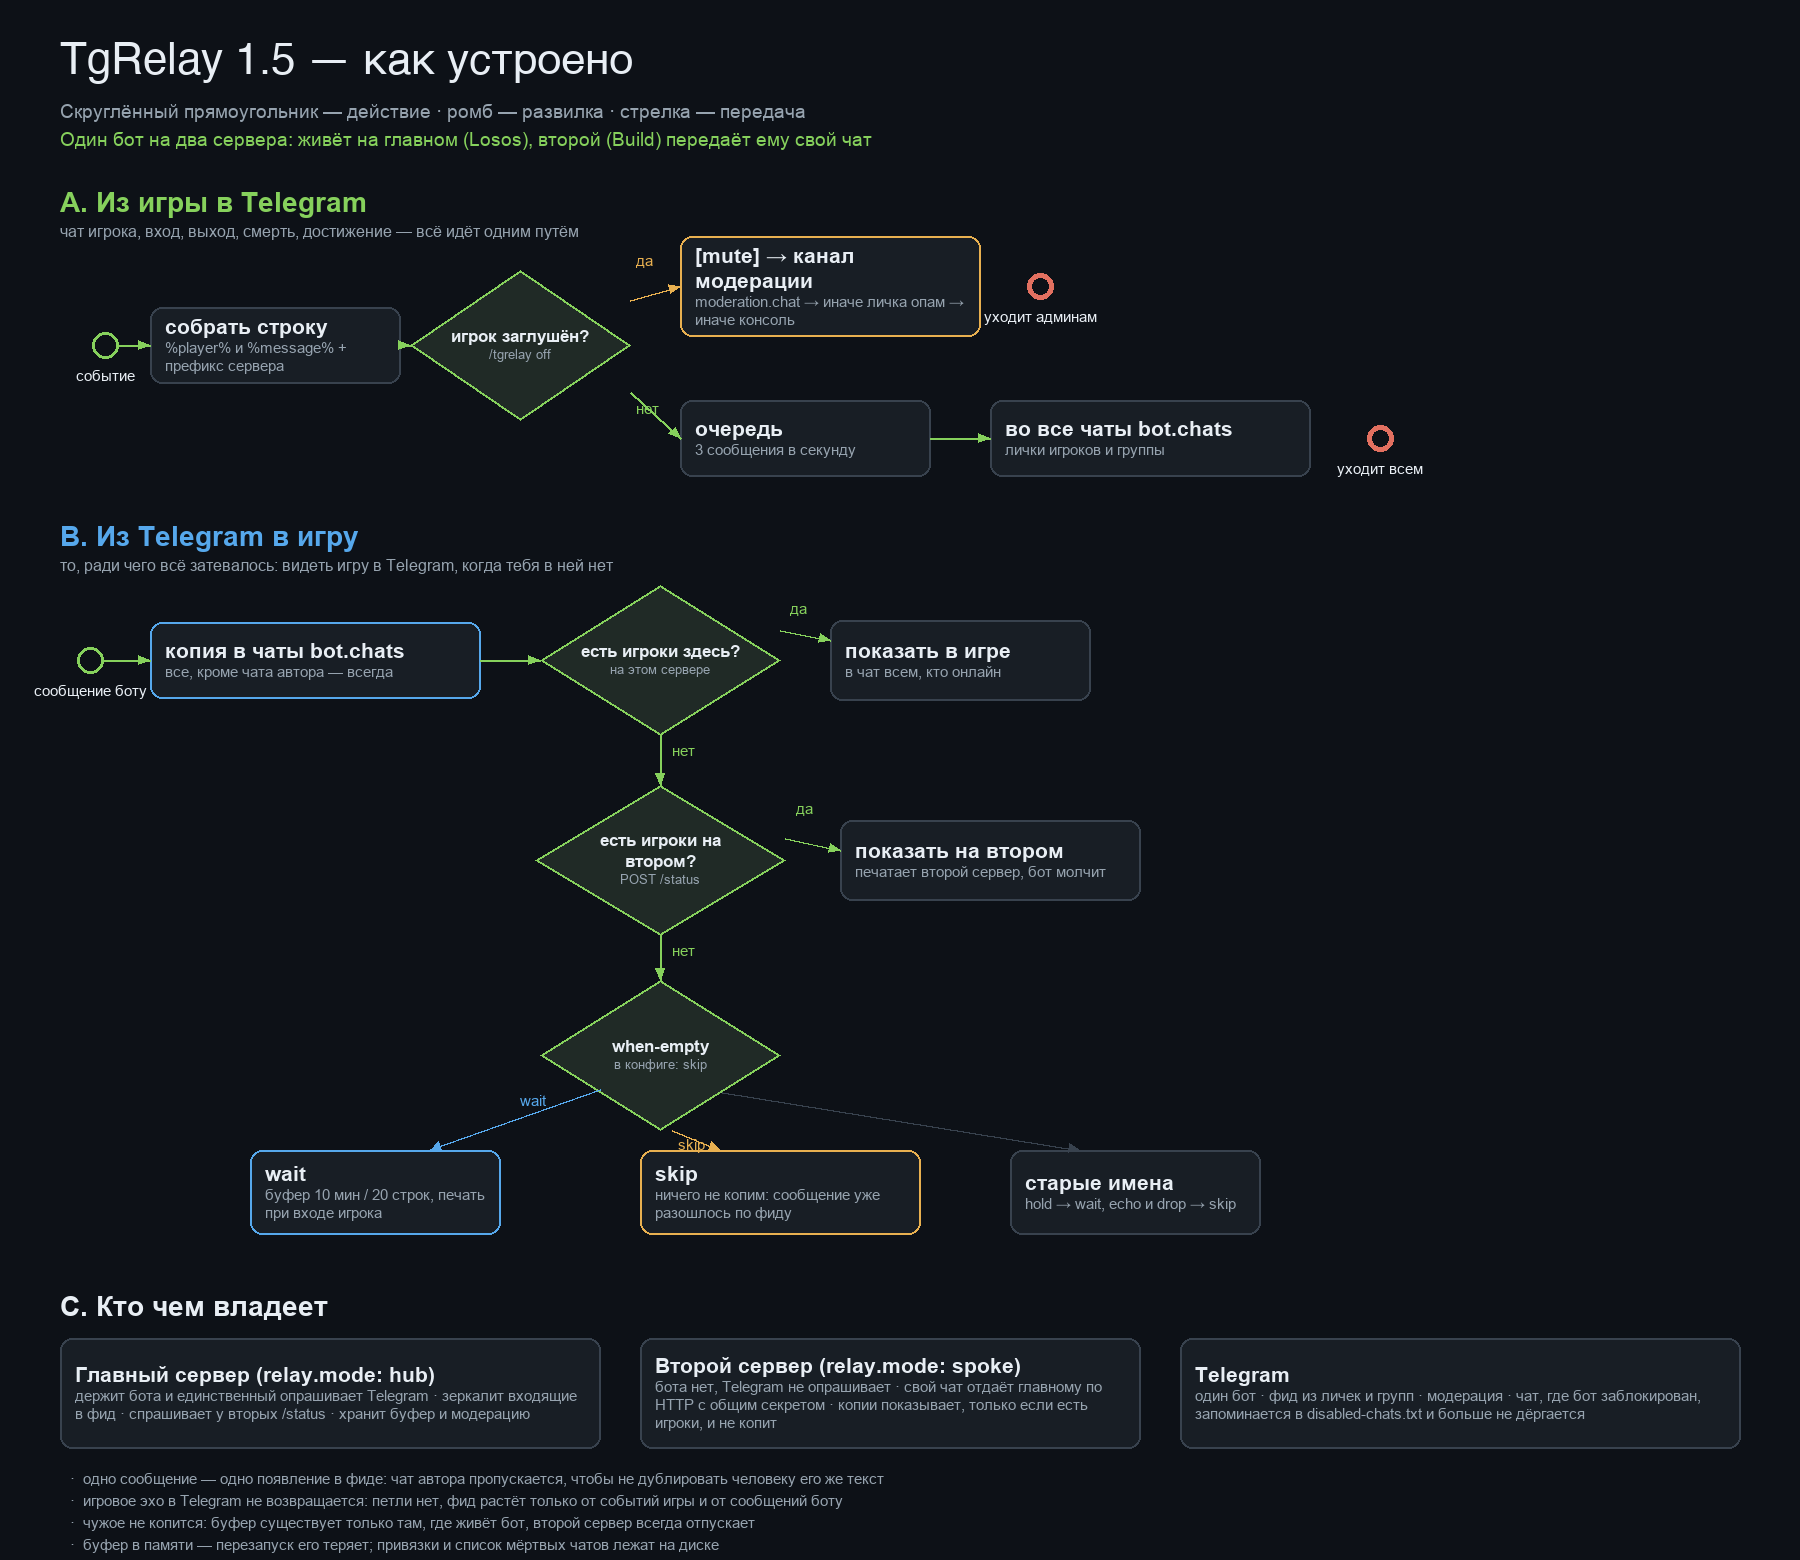
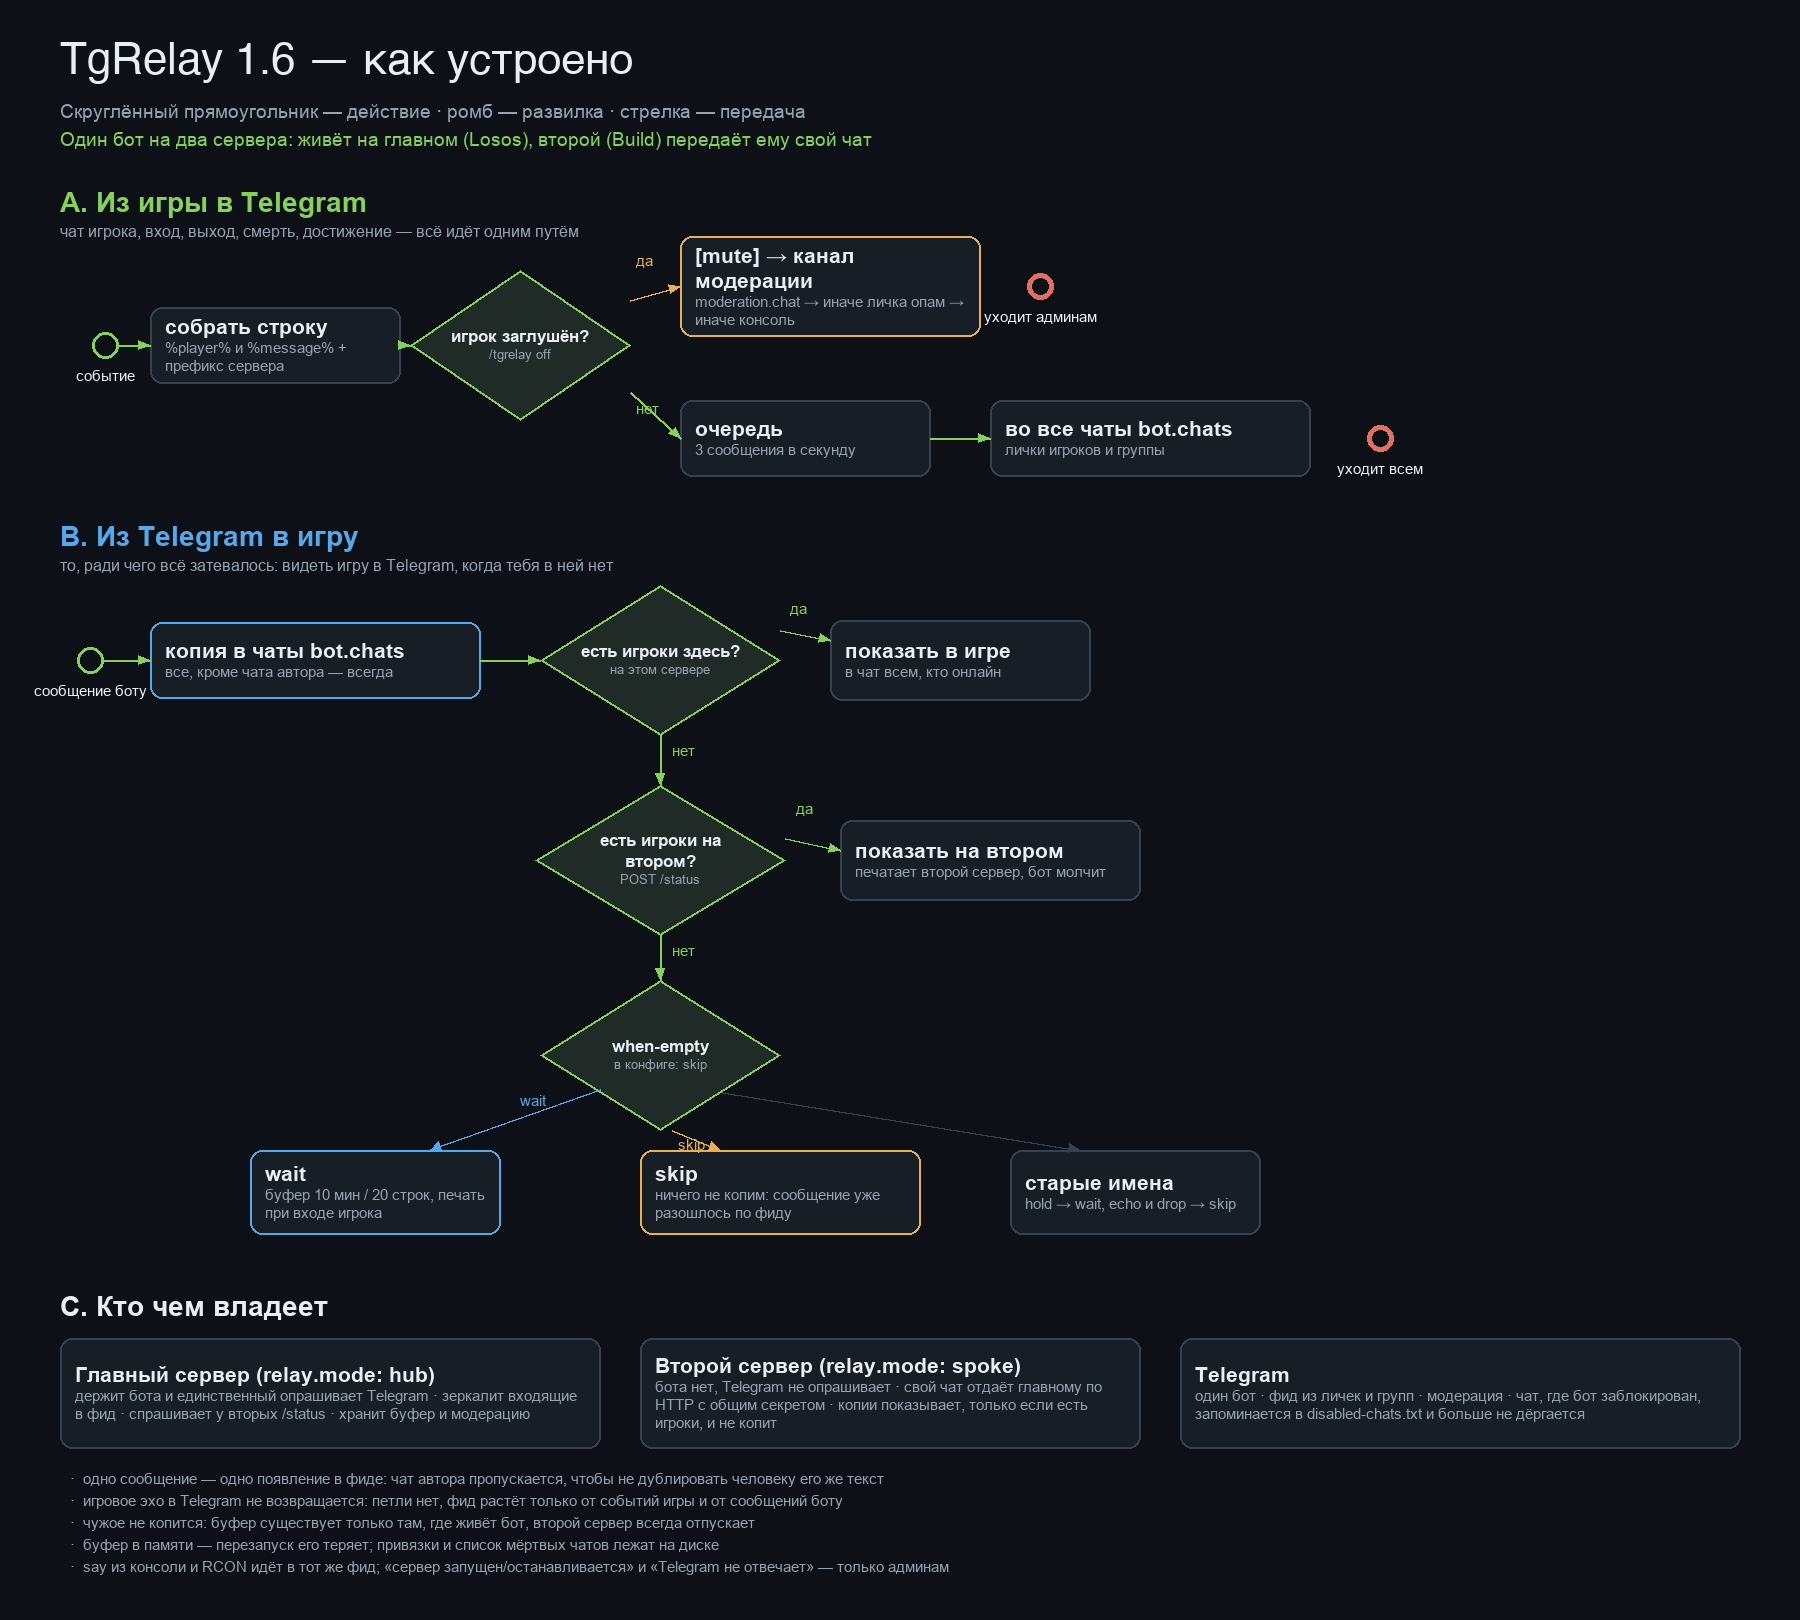
feat: server messages in the feed, technical notices for admins
- /say from the console and from RCON reaches the bot chats as
  "[Losos] text": that is how "the server restarts in a minute" arrives
- admins get technical notices in the moderation route (moderation.chat or a
  DM to linked operators): "server started", "server is stopping", and
  "Telegram is not answering" after N failed polls in a row, then recovery
- broadcast/console/RCON events are de-duplicated, so one /say is one message
- docs: events.broadcast, the notices section, README, logic diagram for 1.6

diff --git a/src/main/java/world/losos/tgrelay/TgRelay.java b/src/main/java/world/losos/tgrelay/TgRelay.java
@@ -135,6 +135,12 @@ public final class TgRelay extends JavaPlugin {
     private String mutePrefix;
     private String moderationChat;
 
+    /* ── технические уведомления админам ── */
+    private boolean noticesEnabled;
+    private String noticesPrefix;
+    private int pollFailureLimit;
+    private final AtomicLong pollFailures = new AtomicLong(0);
+
     static void log(String message) {
         if (instance != null) {
             instance.getLogger().info(message);
@@ -187,6 +193,29 @@ public final class TgRelay extends JavaPlugin {
         }
         if (links.size() > 0) {
             getLogger().info(messages.get("links-loaded", links.size()));
+        }
+        notifyAdmins(messages.get("server-started", serverName.isEmpty() ? "?" : serverName));
+    }
+
+    /**
+     * Сообщение «сервер останавливается» отправляем напрямую: очередь к этому моменту
+     * уже останавливается, и через неё сообщение не уйдёт.
+     */
+    private void sendStoppingNotice() {
+        if (!noticesEnabled || api == null) {
+            return;
+        }
+        List<String> targets = moderationTargets();
+        if (targets.isEmpty()) {
+            return;
+        }
+        String text = noticesPrefix + messages.get("server-stopping", serverName.isEmpty() ? "?" : serverName);
+        for (String chat : targets) {
+            try {
+                api.send(chat, text);
+            } catch (Exception ignored) {
+                // сервер выключается: молча пропускаем
+            }
         }
     }
 
@@ -457,6 +486,7 @@ public final class TgRelay extends JavaPlugin {
             bridge.close();
             bridge = null;
         }
+        sendStoppingNotice();
         getLogger().info(messages.get("stopped"));
     }
 
@@ -559,6 +589,10 @@ public final class TgRelay extends JavaPlugin {
             moderationChat = "";
         }
 
+        noticesEnabled = config.getBoolean("notices.enabled", true);
+        noticesPrefix = config.getString("notices.prefix", "[TgRelay] ");
+        pollFailureLimit = Math.max(1, config.getInt("notices.poll-failures", 5));
+
         // Мост поднимается один раз в onEnable: сокет и потоки на лету не переедут,
         // поэтому на reload честно говорим, что нужен перезапуск, а не делаем вид.
         if (!bridgeSignature.isEmpty() && !bridgeSignature.equals(bridgeSignature())) {
@@ -660,6 +694,29 @@ public final class TgRelay extends JavaPlugin {
         return links.telegramIdsOf(operatorIds());
     }
 
+    /** Сообщение сервера (say, объявление плагина) — в обычные чаты. */
+    void relayBroadcast(String line) {
+        if (line == null || line.isBlank()) {
+            return;
+        }
+        String text = withServer(line);
+        enqueue(text);
+        log(messages.get("broadcast-relayed", text));
+    }
+
+    /** Техническое сообщение админам: модерация в приоритете, иначе консоль. */
+    private void notifyAdmins(String text) {
+        if (!noticesEnabled || text == null || text.isBlank()) {
+            return;
+        }
+        List<String> targets = moderationTargets();
+        if (targets.isEmpty()) {
+            log(messages.get("notices-console", text));
+            return;
+        }
+        enqueueTo(targets, noticesPrefix + text);
+    }
+
     /** Puts an already formatted line into the outbound queue (обычные чаты). */
     void enqueue(String text) {
         enqueueTo(null, text);
@@ -758,6 +815,10 @@ public final class TgRelay extends JavaPlugin {
         while (running.get()) {
             try {
                 List<TelegramApi.Update> updates = api.poll(offset.get() + 1, pollTimeout);
+                if (pollFailures.get() != 0) {
+                    pollFailures.set(0);
+                    notifyAdmins(messages.get("telegram-up", serverName.isEmpty() ? "?" : serverName));
+                }
                 long highest = offset.get();
                 for (TelegramApi.Update update : updates) {
                     highest = Math.max(highest, update.updateId);
@@ -786,6 +847,10 @@ public final class TgRelay extends JavaPlugin {
                 return;
             } catch (Exception error) {
                 log(messages.get("poll-failed", String.valueOf(error)));
+                if (pollFailures.incrementAndGet() == pollFailureLimit) {
+                    notifyAdmins(messages.get("telegram-down", pollFailureLimit,
+                            String.valueOf(error.getMessage())));
+                }
                 try {
                     Thread.sleep(5000);   // back off instead of hammering Telegram
                 } catch (InterruptedException interrupted) {

diff --git a/src/main/java/world/losos/tgrelay/McEvents.java b/src/main/java/world/losos/tgrelay/McEvents.java
@@ -9,6 +9,9 @@ import org.bukkit.event.entity.PlayerDeathEvent;
 import org.bukkit.event.player.PlayerAdvancementDoneEvent;
 import org.bukkit.event.player.PlayerJoinEvent;
 import org.bukkit.event.player.PlayerQuitEvent;
+import org.bukkit.event.server.BroadcastMessageEvent;
+import org.bukkit.event.server.RemoteServerCommandEvent;
+import org.bukkit.event.server.ServerCommandEvent;
 
 /**
  * Game events that are worth forwarding to Telegram.
@@ -20,9 +23,52 @@ import org.bukkit.event.player.PlayerQuitEvent;
 public final class McEvents implements Listener {
 
     private final TgRelay plugin;
+    /** Защита от двойной отправки: одно и то же сообщение может прийти двумя событиями. */
+    private String lastBroadcast = "";
+    private long lastBroadcastAt;
 
     McEvents(TgRelay plugin) {
         this.plugin = plugin;
+    }
+
+    private void relayServerMessage(String text) {
+        if (!enabled("broadcast") || text == null) {
+            return;
+        }
+        String clean = text.replaceAll("(?i)\u00A7[0-9A-FK-OR]", "").trim();
+        if (clean.isEmpty()) {
+            return;
+        }
+        long now = System.currentTimeMillis();
+        if (clean.equals(lastBroadcast) && now - lastBroadcastAt < 3000) {
+            return;
+        }
+        lastBroadcast = clean;
+        lastBroadcastAt = now;
+        plugin.relayBroadcast(template("broadcast", "[%server%] %message%").replace("%message%", clean));
+    }
+
+    /** {@code say ...} из консоли сервера. */
+    @EventHandler(priority = EventPriority.MONITOR, ignoreCancelled = true)
+    public void onConsoleCommand(ServerCommandEvent event) {
+        relaySay(event.getCommand());
+    }
+
+    /** {@code say ...} по RCON. */
+    @EventHandler(priority = EventPriority.MONITOR, ignoreCancelled = true)
+    public void onRemoteCommand(RemoteServerCommandEvent event) {
+        relaySay(event.getCommand());
+    }
+
+    private void relaySay(String command) {
+        if (command == null) {
+            return;
+        }
+        String trimmed = command.trim();
+        if (trimmed.length() < 5 || !trimmed.regionMatches(true, 0, "say ", 0, 4)) {
+            return;
+        }
+        relayServerMessage(trimmed.substring(4));
     }
 
     private boolean enabled(String key) {
@@ -31,6 +77,17 @@ public final class McEvents implements Listener {
 
     private String template(String key, String fallback) {
         return plugin.getConfig().getString("events." + key + "-format", fallback);
+    }
+
+    /**
+     * Сообщения сервера: {@code say} из консоли и RCON, объявления плагинов — всё, что идёт
+     * через broadcast. Так в Telegram попадает «сервер перезапустится через минуту».
+     * Наша собственная рассылка в игре идёт напрямую игрокам, а не через broadcast,
+     * поэтому петли нет.
+     */
+    @EventHandler(priority = EventPriority.MONITOR, ignoreCancelled = true)
+    public void onBroadcast(BroadcastMessageEvent event) {
+        relayServerMessage(event.getMessage());
     }
 
     @EventHandler(priority = EventPriority.MONITOR, ignoreCancelled = true)

diff --git a/docs/configuration.md b/docs/configuration.md
@@ -138,6 +138,7 @@ events:
   quit: true
   death: true
   advancement: true
+  broadcast: true
 
   join-format: "%player% joined the game"
   quit-format: "%player% left the game"
@@ -170,6 +171,30 @@ queue:
 ```
 
 Outbound rate limit (clamped to 1–20). Telegram tolerates about 30 messages per second per bot; a busy server can easily exceed that during a chat flood, and throttling the bot gets you a ban. The queue holds up to 500 messages; anything beyond that is dropped with a console warning.
+
+| `broadcast` | Server messages: `/say`, announcements from other plugins, anything that goes through the server broadcast. `say Сервер перезапустится через минуту` lands in the feed as `[Losos] Сервер перезапустится через минуту`. |
+
+---
+
+## `notices` — technical messages for admins
+
+```yaml
+notices:
+  enabled: true
+  prefix: "[TgRelay] "
+  poll-failures: 5
+```
+
+Things that matter to whoever runs the server but would be noise for players:
+
+| When | Message |
+|---|---|
+| the plugin starts | `сервер Losos запущен` |
+| the server stops | `сервер Losos останавливается` |
+| Telegram stopped answering | `Telegram не отвечает (5 ошибок подряд)`, then `связь восстановлена` |
+
+They go where muted messages go: `moderation.chat` when it is set, otherwise a DM to every
+operator that linked an account, otherwise the server console. Nothing is broadcast to players.
 
 ---
 

diff --git a/README.md b/README.md
@@ -37,6 +37,7 @@ TgRelay does it properly:
 * **outbound queue** with a rate limit, so a chatty server cannot flood Telegram and get the bot throttled;
 * **backoff on errors** instead of a retry storm;
 * **several servers on one bot** — a hub/spoke bridge, so a second server reports into the same chat with its own prefix (below);
+* **server messages and admin notices** — `/say` reaches the chat, and "server started / stopping / Telegram is down" reaches the admins;
 * no third-party HTTP libraries — only the JDK and the server API.
 
 ## Install
@@ -167,8 +168,8 @@ Requires JDK 21+.
 ## Notes
 
 * Paper / Purpur (uses `AsyncChatEvent`). Spigot's legacy `AsyncPlayerChatEvent` is not wired.
-* Telegram → Minecraft messages are printed with `tellraw`, so they keep colours and are not
-  attributed to any player.
+* Telegram → Minecraft messages go straight to every online player and are not attributed to any
+  player, so they cannot be confused with chat.
 * Only chats listed in `bot.chats` are accepted for the Telegram → Minecraft direction.
 * Muted players are muted in the *outbound* direction only — their messages still appear in the
   game chat for everyone, they just do not reach the public Telegram chats.
